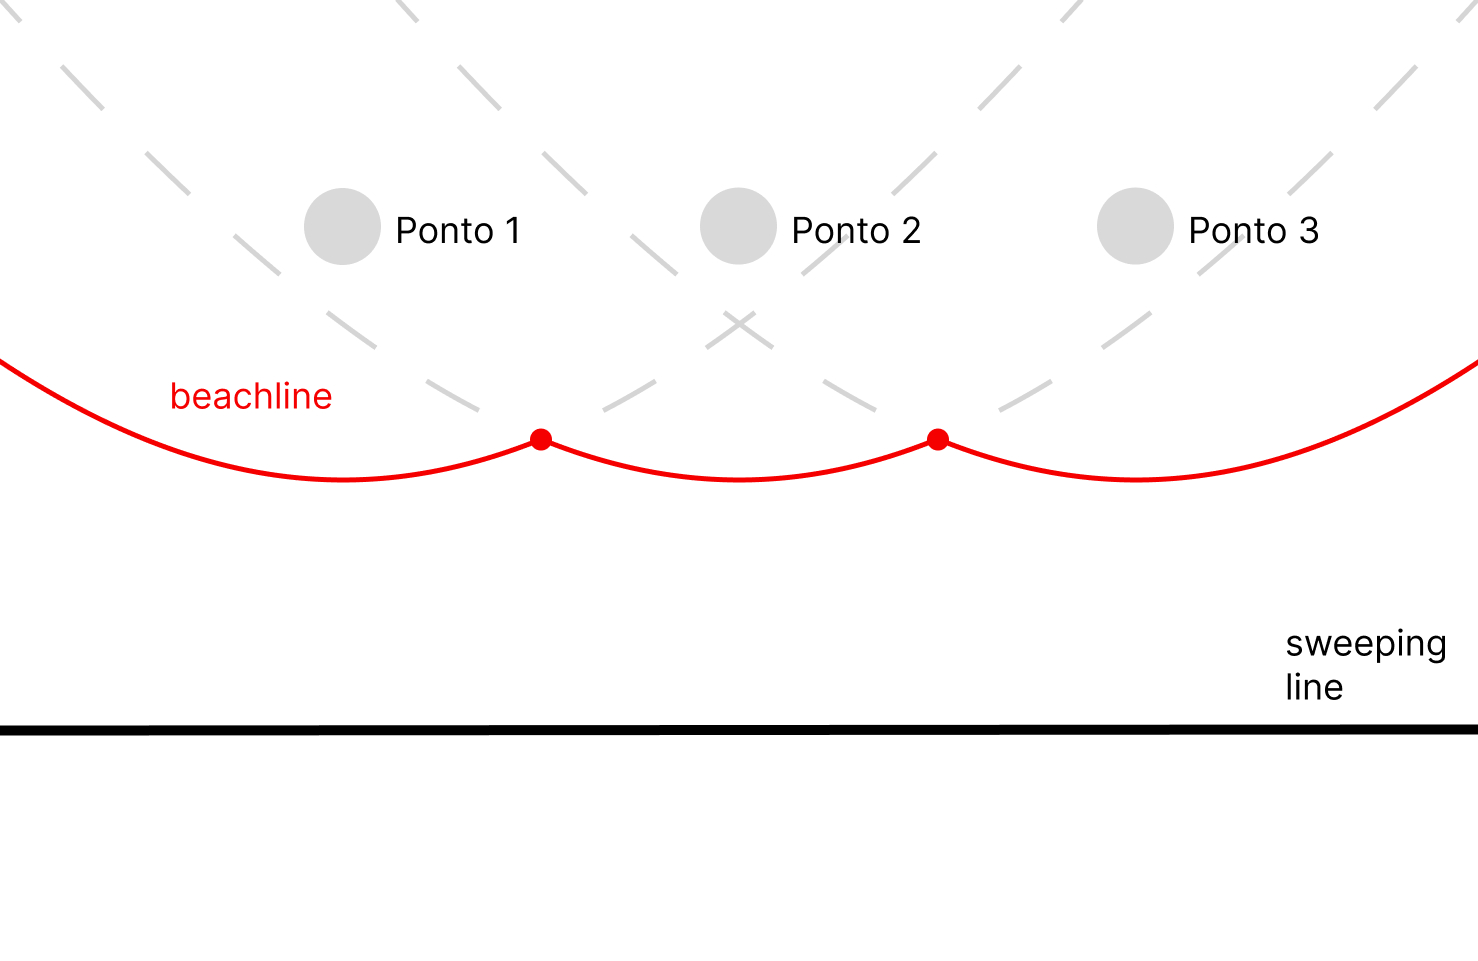
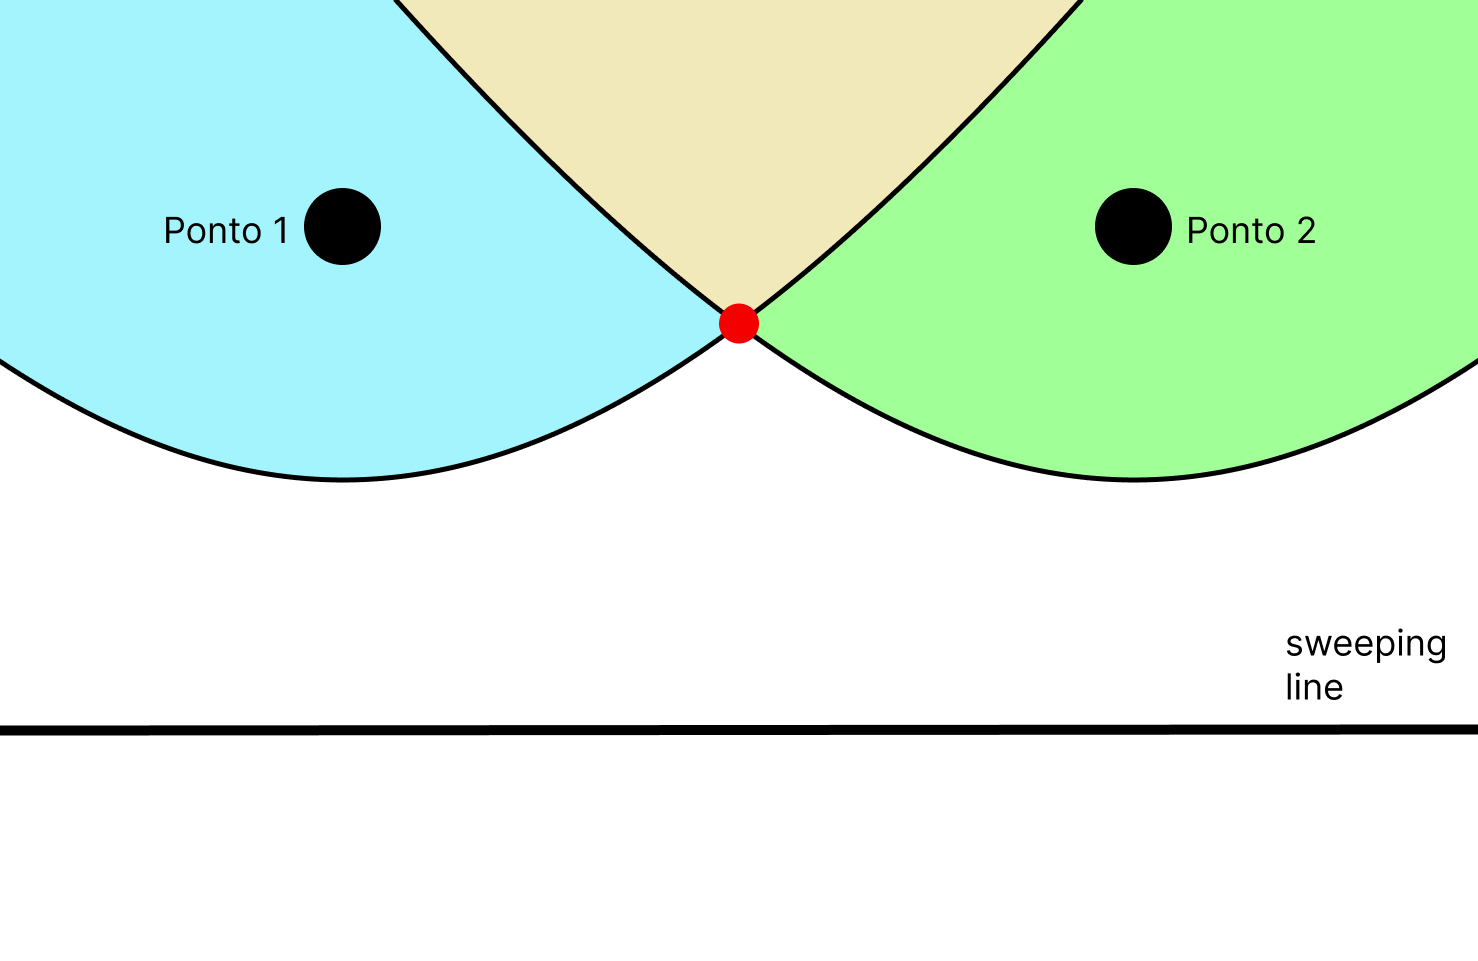
imagens novas

diff --git a/site/index.html b/site/index.html
@@ -26,10 +26,9 @@
         <main>
 
             <h1>Algoritmo de Fortune para Diagrama de Voronoi</h1>
-<h2>Como se encontrar pela cidade</h2>
+<hr>
 <h2>Motivação</h2>
-<!-- Imagine que você é um pássaro!
-Você está voando o dia todo e não conseguiu beber nenhum gole de água. Por sorte, você sabe que ao seu redor, num raio de poucos quilômetros, existem algumas fontes de água. Aqui está o mapa da floresta: -->
+<p><em>Como se encontrar pela cidade</em></p>
 <p>Imagine uma atividade rotineira como fazer uma <strong>ligação de vídeo</strong> para uma pessoa muito especial (para merecer uma ligação de vídeo, precisa ser especial mesmo). Nesse contexto, uma prioridade é enviar e receber informações com a <strong>menor latência</strong> possível.</p>
 <p>Ao seu redor, existem várias antenas de comunicação para as quais podemos mandar um sinal. Esse sinal vai ser retransmitido por vários pontos ao longo da infraestrutura global de comunicação até chegar no seu destino. A fim de <em>minimizar a latência</em> e aumentar a chance do sinal ser recebido sem perdas, seu celular enviar o sinal para a <strong>antena mais próxima</strong>.</p>
 <p>Seu celular sabe sua posição no mapa e a posição das antenas ao seu redor:</p>
@@ -86,6 +85,7 @@ Você está voando o dia todo e não conseguiu beber nenhum gole de água. Por s
 <p>Vamos começar por um exemplo simples. Temos apenas duas antenas no nosso mapa:</p>
 <figure class="img"><img src="img/mapa3.jpg" alt="Duas antenas no mapa"></figure>
 <p>Como podemos dividir esse espaço de modo a indicar, para qualquer ponto no mapa, qual a antena mais próxima?</p>
+<p><span id="2pontos"></span></p>
 <blockquote class="question">
 <p>Pergunta</p>
 <p>Pegue um papel e uma caneta e tente desenhar esse diagrama!</p>
@@ -96,7 +96,6 @@ Você está voando o dia todo e não conseguiu beber nenhum gole de água. Por s
 <p>Agora, sabemos que, se você estiver em qualquer ponto azul, o ponto mais próximo é a <code class="language-md">Antena A</code>. Se você estiver em qualquer ponto verde, porém, o ponto mais próximo é a <code class="language-md">Antena B</code>.</p>
 </details>
 </blockquote>
-<p>Esse princípio</p>
 <p>Agora vamos tentar com três pontos:</p>
 <figure class="img"><img src="img/mapa5.jpg" alt="Três antenas no mapa"></figure>
 <blockquote class="question">
@@ -163,31 +162,43 @@ Você está voando o dia todo e não conseguiu beber nenhum gole de água. Por s
 </details>
 </blockquote>
 <p>Caso tenha restado alguma duvida, desenvolvemos um <a href="https://www.geogebra.org/calculator/xztbxdvv?" target="_blank">arquivo no Geogebra</a> que facilita muito o entendimento:</p>
-<div style="position:relative; width:fit">
-<!-- <iframe src="https://www.geogebra.org/calculator/xztbxdvv?embed" allowfullscreen style="border: 1px solid #e4e4e4;border-radius: 4px; width:100%; height:70vh" frameborder="0"></iframe> -->
-</div>
-<p>Agora que nós deduzimos o comportamento do gráfico para um ponto so, está na hora de acrescentar um segundo ponto.</p>
+<p>Agora vamos dar uma pausa antes de prosseguir. É importante que fique bem claro o significado dessa parábola no nosso problema.</p>
+<p>Antes, com <a href="./#2pontos">2 pontos</a> no gráfico, podiamos subdividir a imagem em duas regiões com uma linha reta. O ponto que estivesse dentro da região <em>azul</em> estaria dentro da <strong>região de controle</strong> da <code class="language-md">Antena A</code>, ou seja, está mais próximo da dela do que a <code class="language-md">Antena B</code>,</p>
+<figure class="img"><img src="img/mapa11.jpg" alt="Divisão do espaço em duas áreas pela parábola"></figure>
+<p>Aqui, nós também estamos subdividindo nosso espaço entre os pontos mais próximos do <code class="language-md">Ponto 1</code> (em azul) e os mais próximos da <code class="language-md">Sweeping Line</code> ou de qualquer ponto abaixo dela (em verde).</p>
+<p>Os pontos que estão equidistantes do ponto e da Sweeping Line (nossa parábola) delimitam essas duas áreas. Prossiga apenas quando tiver certeza que entendeu o motivo e significado da parábola.</p>
 <hr>
-<p>Agora com dois pontos, desenharemos sua parábola para cada um deles seguindo o mesmo procedimento da etapa anterior. Nosso foco cairá sobre a interseção entre essas parabolas:</p>
-<figure class="img"><img src="img/mapa11.jpg" alt="Duas parábolas"></figure>
+<p>Agora que nós deduzimos o comportamento do gráfico para um ponto só, está na hora de acrescentar um segundo ponto. Para cada um deles desenharemos sua parábola seguindo o mesmo procedimento da etapa anterior. Nosso foco cairá sobre a <strong>interseção</strong> entre essas parabolas:</p>
+<figure class="img"><img src="img/mapa12.jpg" alt="Duas parábolas"></figure>
 <blockquote class="question">
 <p>Pergunta</p>
 <p>Antes de continuar, tente refletir sobre o que esse ponto de interseção significa. Utilizando o conhecimento de como os pontos da parábola são formados.</p>
 <details class="answer">
 <summary>Resposta</summary>
-<figure class="img"><img src="img/mapa12.jpg" alt="Pontos equidistantes"></figure>
+<figure class="img"><img src="img/mapa13.jpg" alt="Pontos equidistantes"></figure>
+<p>Se a parábola é formada pelos pontos que são equidistantes entre o ponto de interesse e a sweeping line, o ponto de interseção entre duas parábolas equidistante para ambas.</p>
+<figure class="img"><img src="img/mapa14.jpg" alt="Pontos equidistantes"></figure>
+<p>Para os pontos acima das parábolas, aqueles à esquerda do ponto de intersecção na área <em>azul</em> estão mais próximos do <code class="language-md">Ponto 1</code> enquanto aqueles à direita na área <em>verde</em> estão mais próximos do <code class="language-md">Ponto 2</code>.</p>
 </details>
+</blockquote>
+<blockquote class="warning">
+<p>Aviso</p>
+<p>Ainda não podemos afirmar com certeza a quem pertence a região formada pelos segumentos das interseções entre as duas parábolas. Por que isso?</p>
 </blockquote>
 <blockquote class="question">
 <p>Pergunta</p>
-<p>Sabendo disso, imagine a sweeping line descendo em relação a sua posição anterior. Imagine o que pode estar acontecendo com os pontos de interseção.</p>
+<p>Imagine a sweeping line descendo em relação a sua posição anterior. Imagine o que pode estar acontecendo com os pontos de interseção.</p>
 <p>Desenvolvemos um <a href="https://www.geogebra.org/calculator/vkarzdzv" target="_blank">arquivo do Geogebra</a> que vai ajudar bastante a tirar essa conclusão. Tente encontrar o tipo de relação entre os pontos de interseção com variação da sweeping line.</p>
 <blockquote class="warning">
 <p>Dica:</p>
 <p>Para obter a resposta, ativar o trace do ponto de interseção.</p>
+</blockquote>
+<details class="answer">
+<summary>Resposta</summary>
 <p>Você deve ter concluido que os pontos tem uma relação linear uns com os outros. Essa linha que está sendo formada é justamente uma das arestas do diagrama de Voronoi.</p>
 <p>Então, conforme a sweeping line desce, o algoritmo está traçando a aresta que divide os dois pontos no diagrama</p>
-</blockquote>
+<figure class="img"><img src="img/mapa15.jpg" alt="Aresta sendo criada entre pelos pontos de interseção"></figure>
+</details>
 </blockquote>
 <blockquote class="question">
 <p>Pergunta</p>
@@ -199,6 +210,7 @@ Você está voando o dia todo e não conseguiu beber nenhum gole de água. Por s
 <details class="answer">
 <summary>Resposta</summary>
 <p>Conseguimos concluir que um ponto qualquer de um dos lados da linha está mais próximo do ponto de interesse que está do mesmo lado do que do outro ponto de interesse.</p>
+<figure class="img"><img src="img/mapa16.jpg" alt="Pontos equidistantes"></figure>
 </details>
 </blockquote>
 <p>Parabens, você acabou de entender a lógica por trás de um algoritmo de Fortune para 2 pontos em um grafico!</p>
@@ -206,9 +218,9 @@ Você está voando o dia todo e não conseguiu beber nenhum gole de água. Por s
 <p>Antes de adicionarmos um ponto, vamos entender o conceito da beachline.</p>
 <p>Como no início do handout, pense nos pontos equidistantes entre um ponto e a sweeping line — eles formam uma parábola. Pensou? Agora imagine duas dessas parábolas. A beachline é formada pelos pontos que estão ao mesmo tempo nas duas parábolas e que estão mais próximos da sweeping line em cada posição no eixo x.</p>
 <p>Aqui esta uma imagem que nos ajuda a visualizar isso.</p>
-<figure class="img"><img src="img/mapa13.jpg" alt="Beachline com 4 pontos"></figure>
-<p>Agora que entendemos o conceito, vamos adicionar um terceiro ponto. A lógica é a mesma para 4, 5 ou mais pontos, então, ao compreendermos o caso com 3, poderemos generalizar para qualquer quantidade.</p>
-<figure class="img"><img src="img/mapa14.jpg" alt="Beachline com 4 pontos"></figure>
+<figure class="img"><img src="img/mapa17.jpg" alt="Beachline com 2 pontos"></figure>
+<p>Agora que entendemos o conceito, vamos adicionar um terceiro ponto. A lógica é a mesma para 3, 5 ou mais pontos, então, ao compreendermos o caso com 3, poderemos generalizar para qualquer quantidade.</p>
+<figure class="img"><img src="img/mapa18.jpg" alt="Beachline com 3 pontos"></figure>
 <p>Criamos um <a href="https://www.geogebra.org/calculator/nghuzruv" target="_blank">arquivo do Geogebra</a> que facilita essa visualização e entendimento.</p>
 <hr>
 <h2>Três Pontos</h2>

diff --git a/src/index.md b/src/index.md
@@ -1,14 +1,12 @@
 Algoritmo de Fortune para Diagrama de Voronoi
 ===
 
-Como se encontrar pela cidade
 ---
 
 
 ## Motivação
 
-<!-- Imagine que você é um pássaro!
-Você está voando o dia todo e não conseguiu beber nenhum gole de água. Por sorte, você sabe que ao seu redor, num raio de poucos quilômetros, existem algumas fontes de água. Aqui está o mapa da floresta: -->
+_Como se encontrar pela cidade_
 
 Imagine uma atividade rotineira como fazer uma **ligação de vídeo** para uma pessoa muito especial (para merecer uma ligação de vídeo, precisa ser especial mesmo). Nesse contexto, uma prioridade é enviar e receber informações com a **menor latência** possível.
 
@@ -58,6 +56,8 @@ Vamos começar por um exemplo simples. Temos apenas duas antenas no nosso mapa:
 
 Como podemos dividir esse espaço de modo a indicar, para qualquer ponto no mapa, qual a antena mais próxima?
 
+<span id="2pontos"></span>
+
 ???
 
 Pegue um papel e uma caneta e tente desenhar esse diagrama!
@@ -73,7 +73,6 @@ Agora, sabemos que, se você estiver em qualquer ponto azul, o ponto mais próxi
 
 ???
 
-Esse princípio
 
 Agora vamos tentar com três pontos:
 
@@ -169,36 +168,49 @@ A parabola vai abrir cada vez mais quando a sweeping line desce.
 
 Caso tenha restado alguma duvida, desenvolvemos um [arquivo no Geogebra](https://www.geogebra.org/calculator/xztbxdvv?) que facilita muito o entendimento:
 
-<div style="position:relative; width:fit">
 
-<!-- <iframe src="https://www.geogebra.org/calculator/xztbxdvv?embed" allowfullscreen style="border: 1px solid #e4e4e4;border-radius: 4px; width:100%; height:70vh" frameborder="0"></iframe> -->
+Agora vamos dar uma pausa antes de prosseguir. É importante que fique bem claro o significado dessa parábola no nosso problema.
 
-</div>
+Antes, com [2 pontos](./#2pontos) no gráfico, podiamos subdividir a imagem em duas regiões com uma linha reta. O ponto que estivesse dentro da região _azul_ estaria dentro da **região de controle** da `md Antena A`, ou seja, está mais próximo da dela do que a `md Antena B`,
 
-Agora que nós deduzimos o comportamento do gráfico para um ponto so, está na hora de acrescentar um segundo ponto.
+![Divisão do espaço em duas áreas pela parábola](mapa11.jpg)
 
+Aqui, nós também estamos subdividindo nosso espaço entre os pontos mais próximos do `md Ponto 1` (em azul) e os mais próximos da `md Sweeping Line` ou de qualquer ponto abaixo dela (em verde).
+
+Os pontos que estão equidistantes do ponto e da Sweeping Line (nossa parábola) delimitam essas duas áreas. Prossiga apenas quando tiver certeza que entendeu o motivo e significado da parábola.
 
 ---
 
-Agora com dois pontos, desenharemos sua parábola para cada um deles seguindo o mesmo procedimento da etapa anterior. Nosso foco cairá sobre a interseção entre essas parabolas:
+Agora que nós deduzimos o comportamento do gráfico para um ponto só, está na hora de acrescentar um segundo ponto. Para cada um deles desenharemos sua parábola seguindo o mesmo procedimento da etapa anterior. Nosso foco cairá sobre a **interseção** entre essas parabolas:
 
-![Duas parábolas](mapa11.jpg)
+![Duas parábolas](mapa12.jpg)
 
 ???
 Antes de continuar, tente refletir sobre o que esse ponto de interseção significa. Utilizando o conhecimento de como os pontos da parábola são formados.
 
 :::
 
+![Pontos equidistantes](mapa13.jpg)
+
 Se a parábola é formada pelos pontos que são equidistantes entre o ponto de interesse e a sweeping line, o ponto de interseção entre duas parábolas equidistante para ambas.
-![Pontos equidistantes](mapa12.jpg)
+
+![Pontos equidistantes](mapa14.jpg)
+
+Para os pontos acima das parábolas, aqueles à esquerda do ponto de intersecção na área _azul_ estão mais próximos do `md Ponto 1` enquanto aqueles à direita na área _verde_ estão mais próximos do `md Ponto 2`.
+
 
 :::
 ???
 
+!!!
+
+Ainda não podemos afirmar com certeza a quem pertence a região formada pelos segumentos das interseções entre as duas parábolas. Por que isso?
+
+!!!
 
 ???
 
-Sabendo disso, imagine a sweeping line descendo em relação a sua posição anterior. Imagine o que pode estar acontecendo com os pontos de interseção. 
+Imagine a sweeping line descendo em relação a sua posição anterior. Imagine o que pode estar acontecendo com os pontos de interseção. 
 
 
 Desenvolvemos um [arquivo do Geogebra](https://www.geogebra.org/calculator/vkarzdzv) que vai ajudar bastante a tirar essa conclusão. Tente encontrar o tipo de relação entre os pontos de interseção com variação da sweeping line.
@@ -207,10 +219,18 @@ Desenvolvemos um [arquivo do Geogebra](https://www.geogebra.org/calculator/vkarz
 !!! Dica:
 Para obter a resposta, ativar o trace do ponto de interseção.
 
+!!!
+
+:::
+
 Você deve ter concluido que os pontos tem uma relação linear uns com os outros. Essa linha que está sendo formada é justamente uma das arestas do diagrama de Voronoi.
 
 Então, conforme a sweeping line desce, o algoritmo está traçando a aresta que divide os dois pontos no diagrama
-!!!
+
+![Aresta sendo criada entre pelos pontos de interseção](mapa15.jpg)
+
+
+:::
 
 ???
 
@@ -226,6 +246,8 @@ Pense na distancia
 
 Conseguimos concluir que um ponto qualquer de um dos lados da linha está mais próximo do ponto de interesse que está do mesmo lado do que do outro ponto de interesse.
 
+![Pontos equidistantes](mapa16.jpg)
+
 ???
 
 Parabens, você acabou de entender a lógica por trás de um algoritmo de Fortune para 2 pontos em um grafico!
@@ -238,11 +260,11 @@ Como no início do handout, pense nos pontos equidistantes entre um ponto e a sw
 
 Aqui esta uma imagem que nos ajuda a visualizar isso. 
 
-![Beachline com 4 pontos](mapa13.jpg)
+![Beachline com 2 pontos](mapa17.jpg)
 
-Agora que entendemos o conceito, vamos adicionar um terceiro ponto. A lógica é a mesma para 4, 5 ou mais pontos, então, ao compreendermos o caso com 3, poderemos generalizar para qualquer quantidade.
+Agora que entendemos o conceito, vamos adicionar um terceiro ponto. A lógica é a mesma para 3, 5 ou mais pontos, então, ao compreendermos o caso com 3, poderemos generalizar para qualquer quantidade.
 
-![Beachline com 4 pontos](mapa14.jpg)
+![Beachline com 3 pontos](mapa18.jpg)
 
 Criamos um [arquivo do Geogebra](https://www.geogebra.org/calculator/nghuzruv) que facilita essa visualização e entendimento.
 
